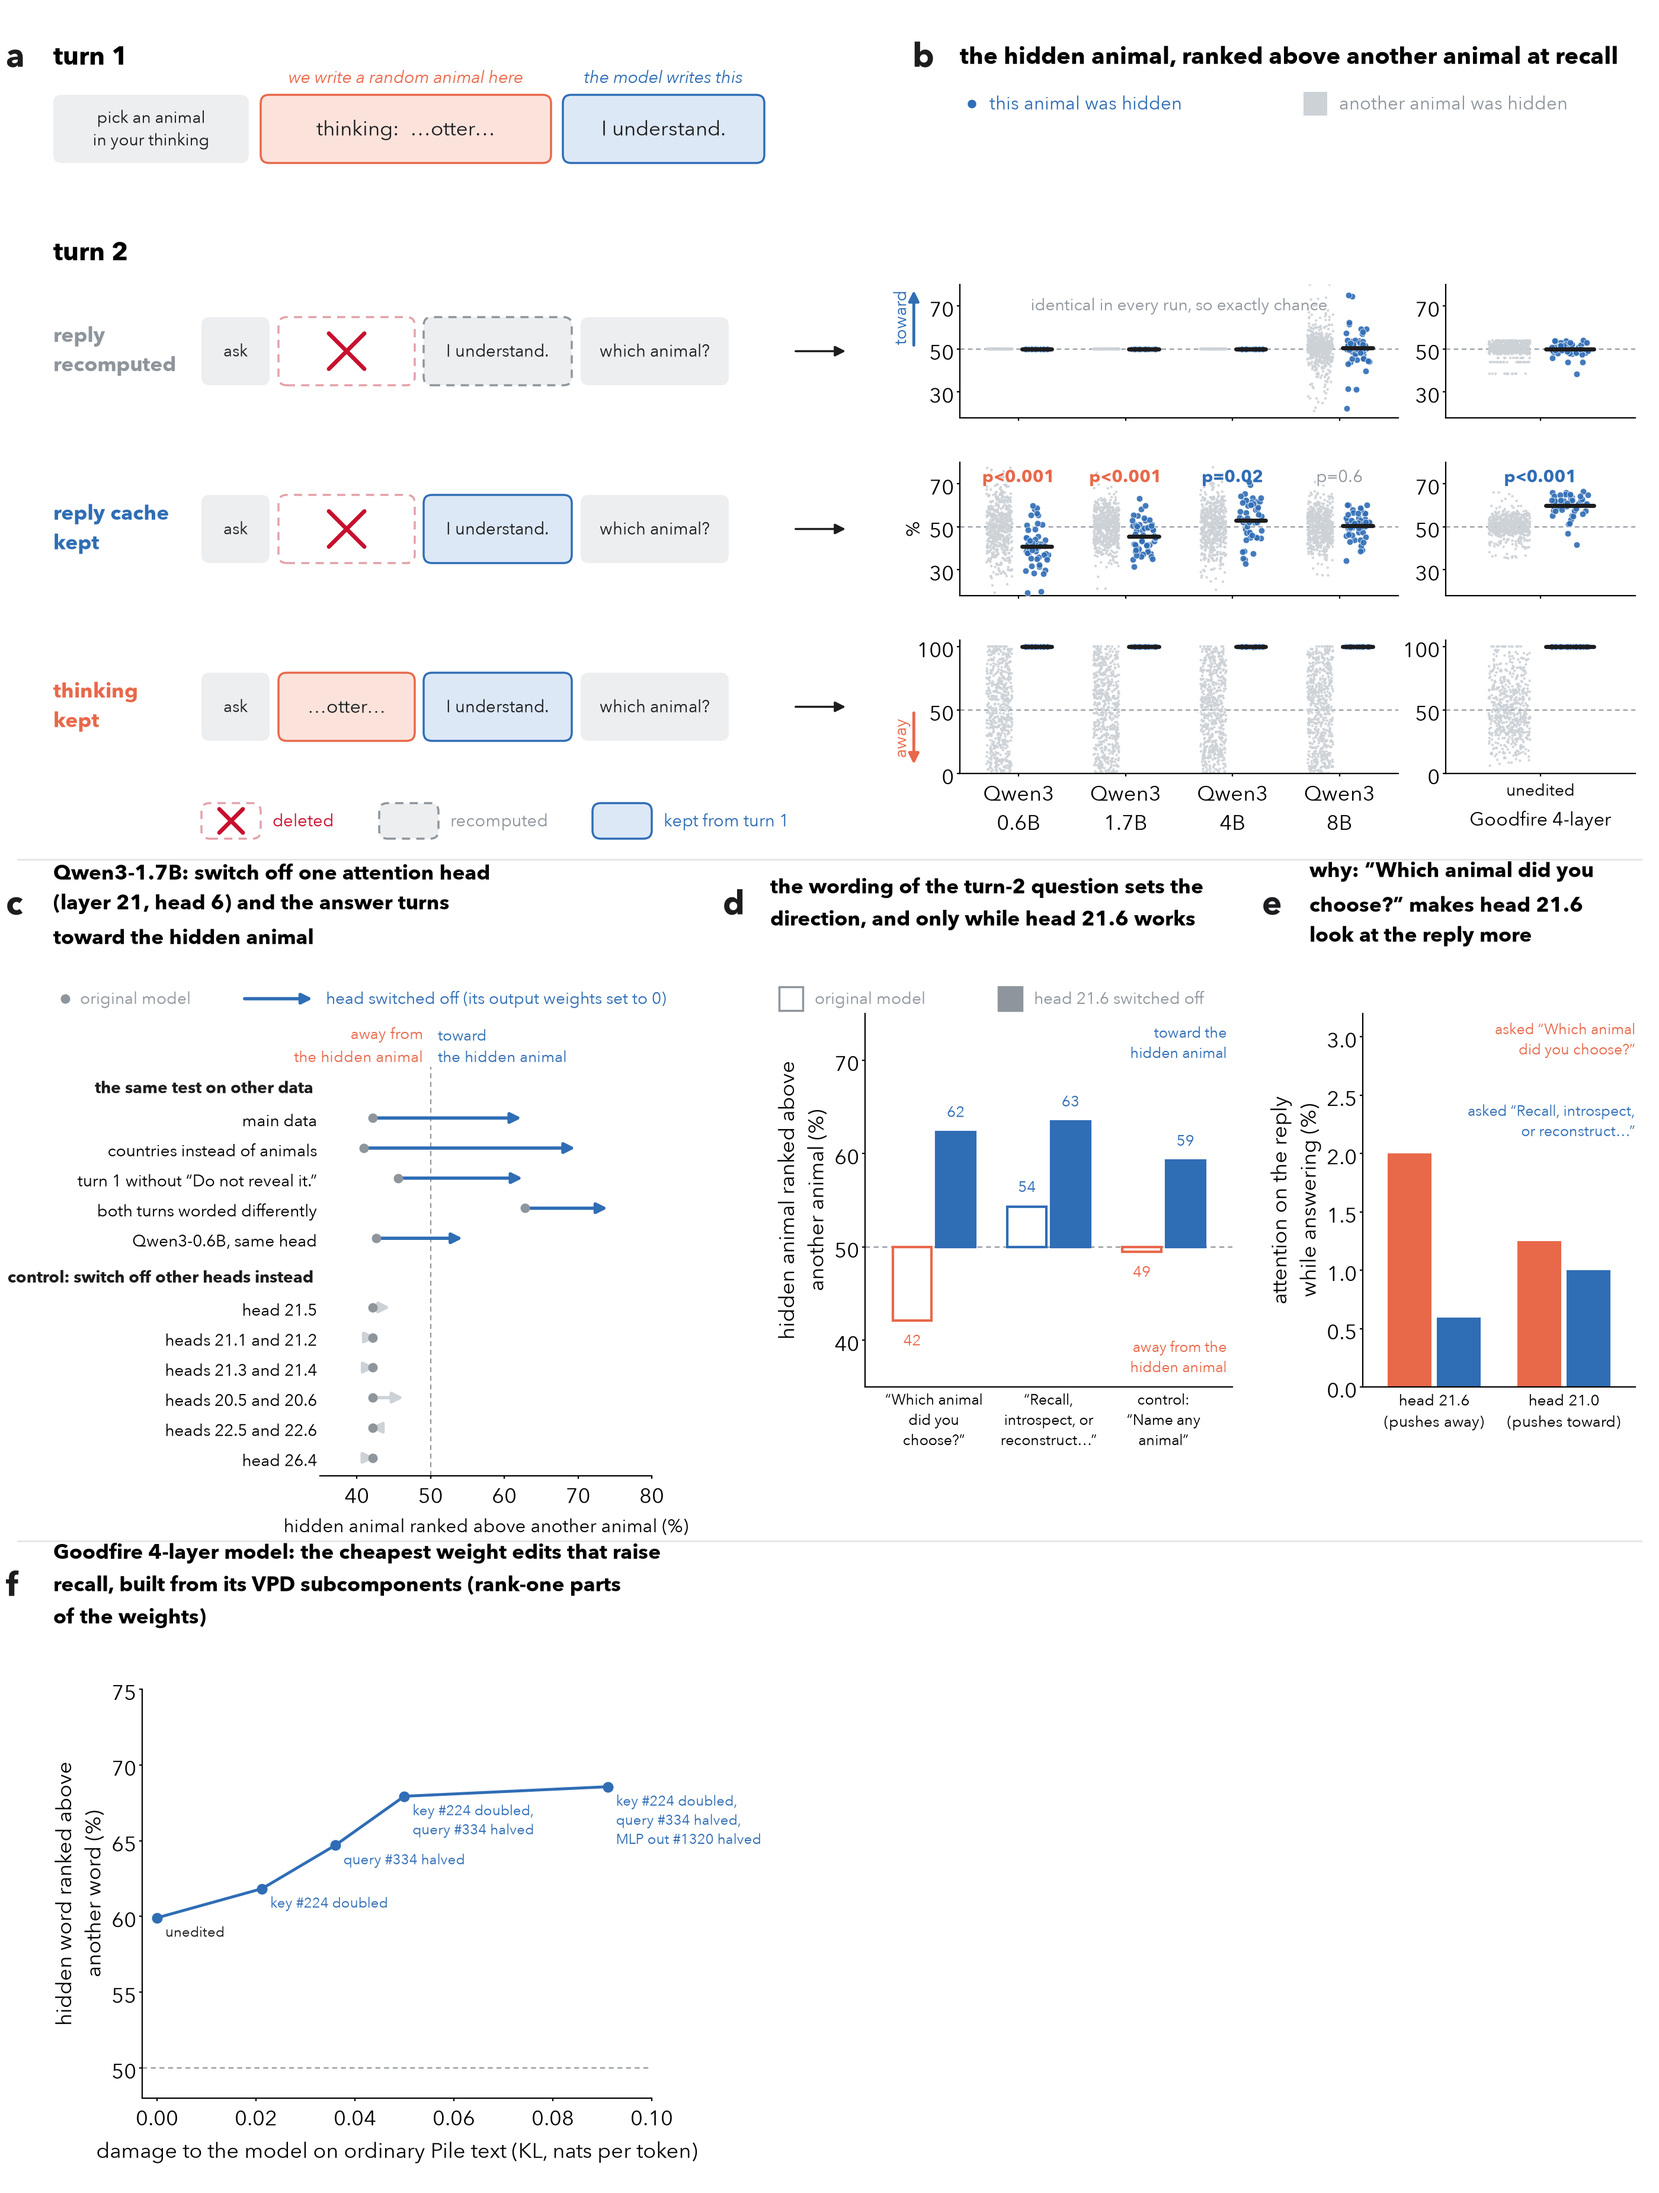
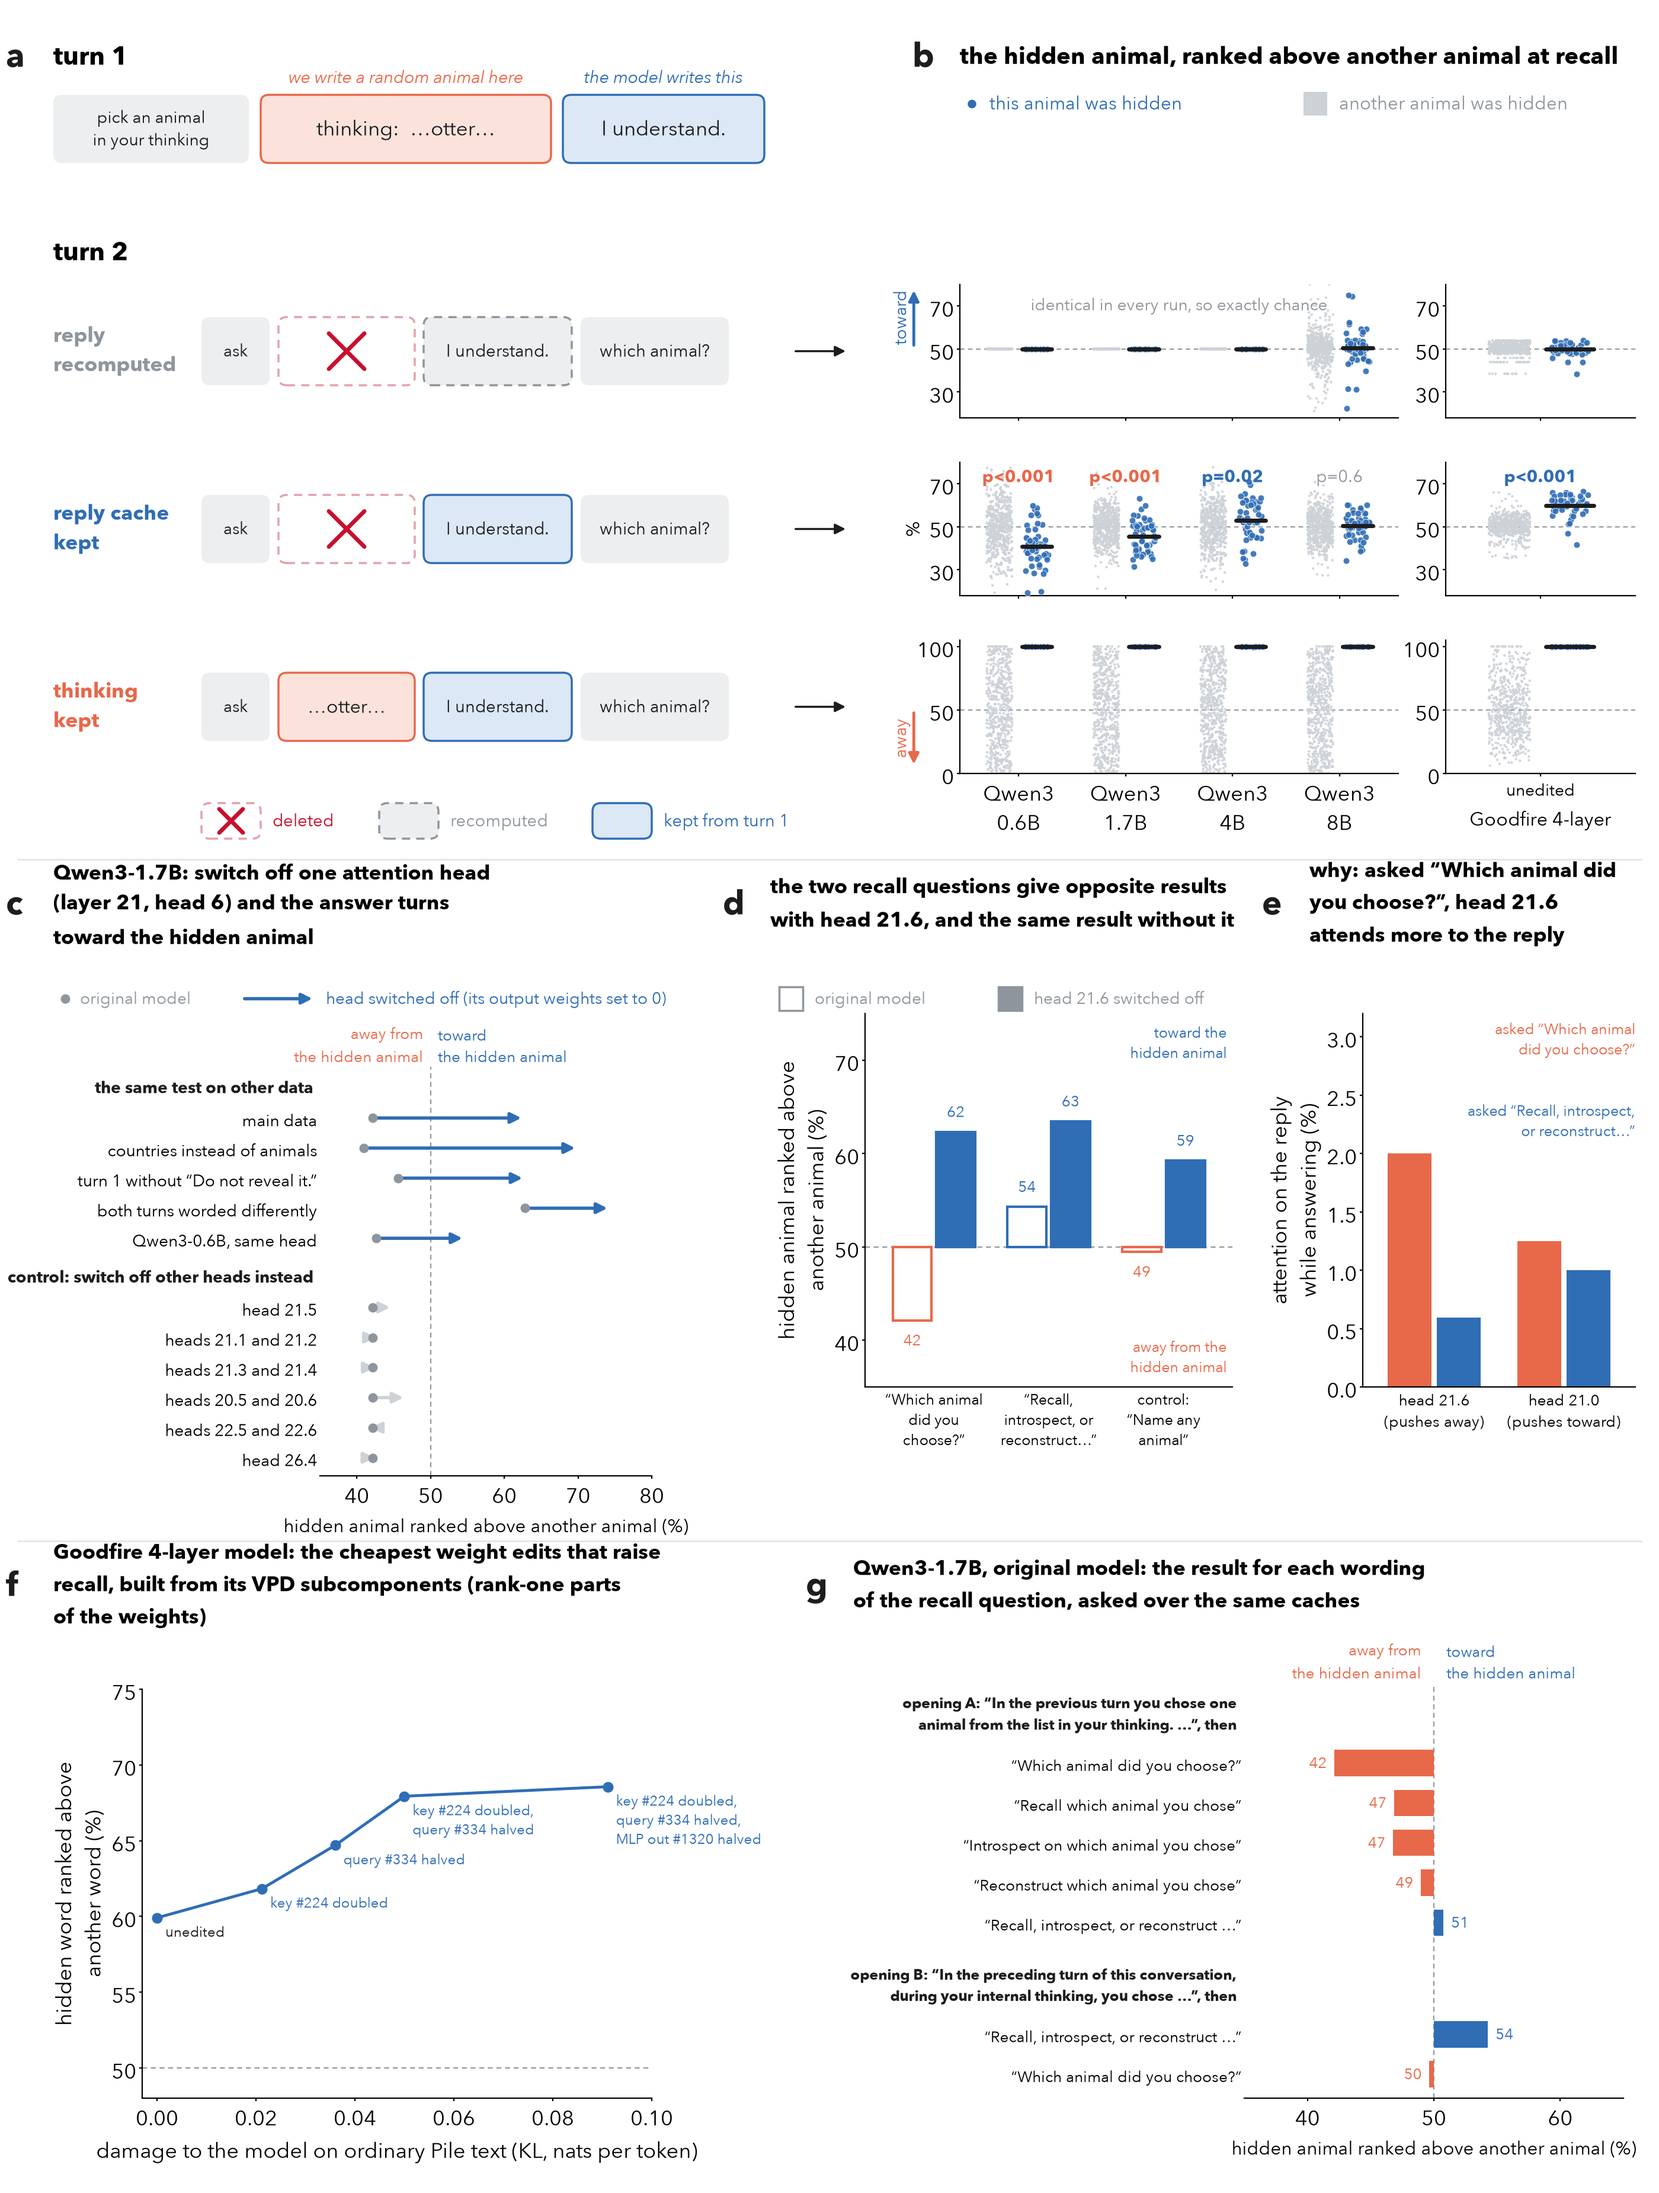
Panel g: each wording of the recall question over the same caches; plain titles for d and e

diff --git a/figure_main.py b/figure_main.py
@@ -280,7 +280,7 @@ def row_head(cv, y0, flip_groups, questions, attention):
     panel_switch(cv, 5.4, y0 + 1.1, 5.6, 6.9, flip_groups)
 
     cv.letter(12.2, top - 0.75, "d")
-    cv.S.text(13.0, top - 0.75, "the wording of the turn-2 question sets the\ndirection, and only while head 21.6 works",
+    cv.S.text(13.0, top - 0.75, "the two recall questions give opposite results\nwith head 21.6, and the same result without it",
               fontsize=25, weight="bold", va="center", linespacing=1.15)
     cv.S.add_patch(plt.Rectangle((13.15, top - 2.55), 0.4, 0.4, facecolor="white", edgecolor=SLATE, lw=2.5))
     cv.S.text(13.75, top - 2.35, "original model", fontsize=20, color=SLATE, va="center")
@@ -289,7 +289,7 @@ def row_head(cv, y0, flip_groups, questions, attention):
     panel_questions(cv, 14.6, y0 + 2.6, 6.2, 6.3, questions)
 
     cv.letter(21.3, top - 0.75, "e")
-    cv.S.text(22.1, top - 0.75, "why: “Which animal did you\nchoose?” makes head 21.6\nlook at the reply more",
+    cv.S.text(22.1, top - 0.75, "why: asked “Which animal did\nyou choose?”, head 21.6\nattends more to the reply",
               fontsize=25, weight="bold", va="center", linespacing=1.15)
     att = [json.load(open(p)) for p in attention]
     ax = cv.axes(23.0, y0 + 2.6, 4.6, 6.3)
@@ -307,22 +307,26 @@ def row_head(cv, y0, flip_groups, questions, attention):
 
 
 def panel_words(cv, x, y, w, h, path):
-    """Discrimination for turn-2 questions that differ only in their final request, over the same turn-1 caches
+    """Discrimination for turn-2 questions that differ only in their wording, over the same turn-1 caches
     (edit_heads.py --question); bars start at chance."""
     e = json.load(open(path))["edits"]["none"]
-    rows = [("retained", "\u201cWhich animal did you choose?\u201d"),
+    rows = [(None, "opening A: \u201cIn the previous turn you chose one\nanimal from the list in your thinking. \u2026\u201d, then"),
+            ("retained", "\u201cWhich animal did you choose?\u201d"),
             ("A_recall", "\u201cRecall which animal you chose\u201d"),
             ("A_introspect", "\u201cIntrospect on which animal you chose\u201d"),
             ("A_reconstruct", "\u201cReconstruct which animal you chose\u201d"),
-            ("A_all_three", "\u201cRecall, introspect, or reconstruct which\nanimal you chose\u201d"),
-            (None, None),
-            ("B_original", "question B as written"),
-            ("B_which", "question B ending \u201cWhich animal did\nyou choose?\u201d")]
+            ("A_all_three", "\u201cRecall, introspect, or reconstruct \u2026\u201d"),
+            (None, "opening B: \u201cIn the preceding turn of this conversation,\nduring your internal thinking, you chose \u2026\u201d, then"),
+            ("B_original", "\u201cRecall, introspect, or reconstruct \u2026\u201d"),
+            ("B_which", "\u201cWhich animal did you choose?\u201d")]
     ax = cv.axes(x, y, w, h)
     yy, ticks, labels = 0.0, [], []
     for arm, label in rows:
         if arm is None:
-            yy -= 0.5
+            yy -= 0.4 if ticks else 0
+            ax.text(-0.02, yy - 0.2, label, transform=ax.get_yaxis_transform(), fontsize=18, color=INK, weight="bold",
+                    va="center", ha="right", linespacing=1.05)
+            yy -= 1.4
             continue
         if arm not in e:
             continue
@@ -333,12 +337,12 @@ def panel_words(cv, x, y, w, h, path):
         ticks.append(yy)
         labels.append(label)
         yy -= 1.0
-    direction_axis(ax, 35, 70)
+    direction_axis(ax, 35, 65)
     ax.set_yticks(ticks, labels, fontsize=19)
     ax.tick_params(axis="y", length=0)
     ax.spines["left"].set_visible(False)
     ax.set_ylim(yy + 0.4, 0.6)
-    ax.set_xticks([40, 50, 60, 70])
+    ax.set_xticks([40, 50, 60])
     ax.set_xlabel("hidden animal ranked above another animal (%)", fontsize=22)
 
 
@@ -381,9 +385,9 @@ def row_fourlayer(cv, sweep_paths, optimized, words, y0):
     ax.set_ylabel("hidden word ranked above\nanother word (%)")
     if words:
         cv.letter(13.6, top - 0.75, "g")
-        cv.S.text(14.4, top - 0.75, "Qwen3-1.7B: which words in the recall question turn the\nanswer toward the hidden animal (same caches, original model)",
+        cv.S.text(14.4, top - 0.75, "Qwen3-1.7B, original model: the result for each wording\nof the recall question, asked over the same caches",
                   fontsize=25, weight="bold", va="center", linespacing=1.15)
-        panel_words(cv, 20.6, y0 + 1.6, 6.6, 6.9, words)
+        panel_words(cv, 21.0, y0 + 1.6, 6.4, 7.0, words)
 
 
 def main():
